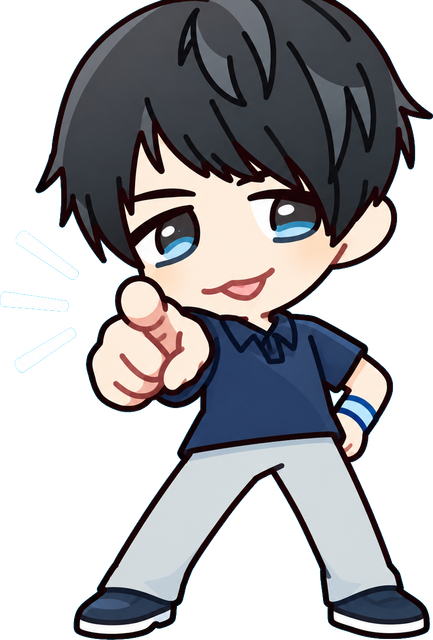
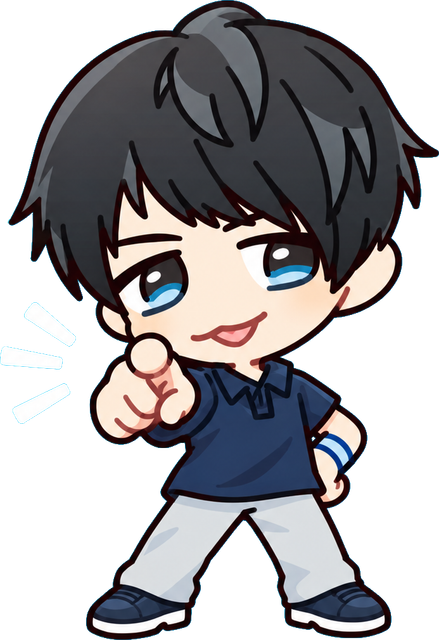
4:00 の付与演出: 注記と「演出を見る」ボタンを削除し、キャラクター画像を差し替え
- 演出内の「毎朝4:00に10pt付与・タップで閉じる」の注記を削除
- ありがとう画面の「4:00 の演出を見る」ボタンとプレビュー用イベントを削除
  (日付切り替えのデモ用イベント thanks-grant:cross は開発者ツール向けに残す)
- 頭が欠けていたキャラクター画像を全身が入ったものに差し替え

diff --git a/src/components/thanks-grant.tsx b/src/components/thanks-grant.tsx
@@ -2,12 +2,11 @@
 
 import { useCallback, useEffect, useRef, useState } from "react";
 import { useRouter } from "next/navigation";
-import { THANKS_RESET_HOUR, thanksPeriodStart } from "@/lib/thanks";
+import { thanksPeriodStart } from "@/lib/thanks";
 import { IconHeart } from "./icons";
 
 const SEEN_KEY = "thanks-grant-seen"; // 表示済みの期間開始時刻(ISO)
-export const THANKS_GRANT_PREVIEW_EVENT = "thanks-grant:preview";
-// 4:00 の切り替えと同じ経路(演出+再取得)を任意に起こすデモ用イベント
+// 4:00 の切り替えと同じ経路(演出+再取得)を任意に起こすデモ用イベント(開発者ツールから)
 export const THANKS_GRANT_CROSS_EVENT = "thanks-grant:cross";
 const AUTO_CLOSE_MS = 6000;
 // キャラクター画像(public/thanks/character.png)。指差しポーズのイラストを置く。
@@ -18,7 +17,6 @@ const CHARACTER_IMAGE = "/thanks/character.png";
 // 告げてポイントが付与される演出。
 // - アプリを開いたときにその日の期間で未表示なら1回表示(端末ごとに記憶)
 // - 開いたまま4:00をまたいだときも表示し、画面を再読込して残ポイントを反映する
-// - ありがとう画面の「演出を見る」からいつでも再生できる
 export function ThanksGrant({ budget, endsAtMs }: { budget: number; endsAtMs: number }) {
   const [open, setOpen] = useState(false);
   const [imgOk, setImgOk] = useState(true);
@@ -73,16 +71,11 @@ export function ThanksGrant({ budget, endsAtMs }: { budget: number; endsAtMs: nu
     return () => clearInterval(iv);
   }, [endsAtMs, show]);
 
-  // プレビュー(ありがとう画面のボタンから)/ 日付切り替えのデモ
+  // 日付切り替えのデモ(開発者ツールから window.dispatchEvent(new Event("thanks-grant:cross")))
   useEffect(() => {
-    const onPreview = () => show(false);
     const onCross = () => show(true);
-    window.addEventListener(THANKS_GRANT_PREVIEW_EVENT, onPreview);
     window.addEventListener(THANKS_GRANT_CROSS_EVENT, onCross);
-    return () => {
-      window.removeEventListener(THANKS_GRANT_PREVIEW_EVENT, onPreview);
-      window.removeEventListener(THANKS_GRANT_CROSS_EVENT, onCross);
-    };
+    return () => window.removeEventListener(THANKS_GRANT_CROSS_EVENT, onCross);
   }, [show]);
 
   useEffect(() => () => {
@@ -147,9 +140,6 @@ export function ThanksGrant({ budget, endsAtMs }: { budget: number; endsAtMs: nu
           )}
         </div>
 
-        <p className="mt-1 text-[11.5px] font-bold text-white/85">
-          毎朝 {THANKS_RESET_HOUR}:00 に {budget} pt 付与 · タップで閉じる
-        </p>
       </div>
     </div>
   );

diff --git a/src/app/(app)/thanks/page.tsx b/src/app/(app)/thanks/page.tsx
@@ -2,7 +2,6 @@ import { and, eq } from "drizzle-orm";
 import { schema } from "@/db";
 import { AppHeader } from "@/components/app-header";
 import { ThanksBoard } from "@/components/thanks-board";
-import { ThanksGrantPreviewButton } from "@/components/thanks-grant-preview";
 import { Avatar, Card, Pill } from "@/components/ui";
 import { fmtDateTime, fmtTime, jstDateKey } from "@/lib/format";
 import { getApprovedMembers, requireTripContext } from "@/lib/session";
@@ -34,11 +33,6 @@ export default async function ThanksPage() {
   return (
     <>
       <AppHeader title="ありがとう" />
-      {!closed && (
-        <p className="mx-0.5 -mt-1 mb-2 text-right">
-          <ThanksGrantPreviewButton />
-        </p>
-      )}
 
       {/* 受け取った分(常時表示) */}
       <Card className="mb-2.5 border-l-[6px] border-l-violet">
